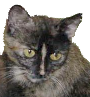
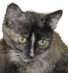
scale the cat image 0.75
git-svn-id: https://svn.stsci.edu/svn/ssb/etal/pandokia/trunk@701 d34015c8-bcbb-4646-8ac8-8ba5febf221d

diff --git a/pandokia/common.py b/pandokia/common.py
@@ -621,5 +621,5 @@ def hostinfo( name ) :
 
 
 B64IMG_FAVICO = 'None'
[1 lines of base64/hex data omitted]
-B64IMG_FORMAT = 'jpeg'
[1 lines of base64/hex data omitted]
+B64IMG_FORMAT = 'png'
